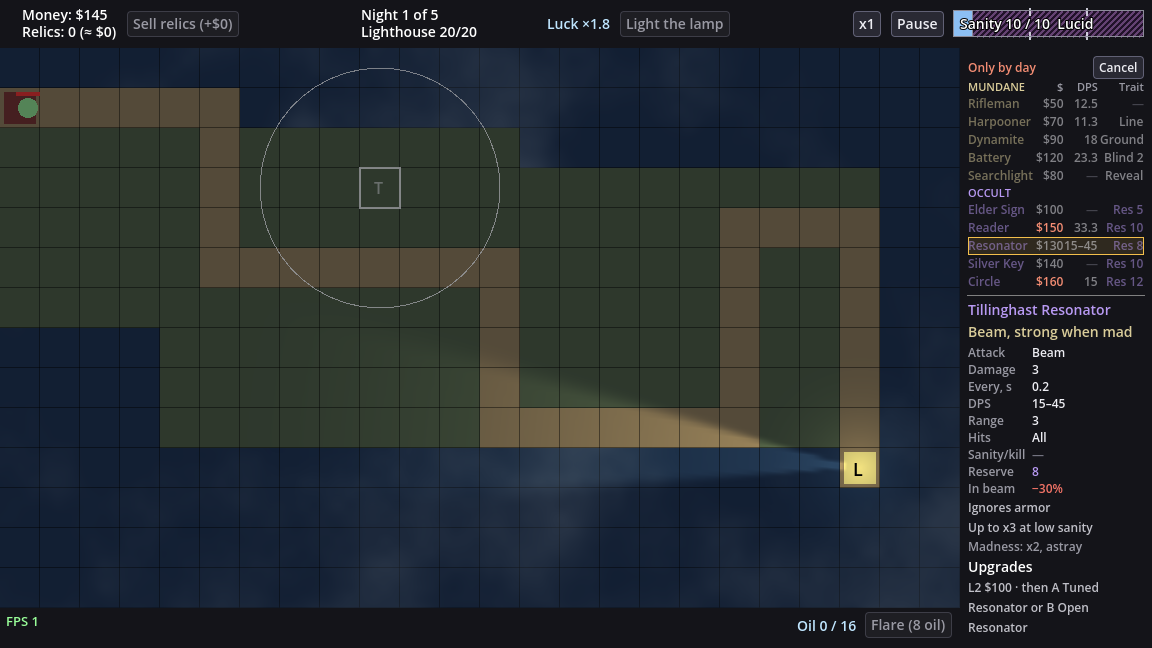
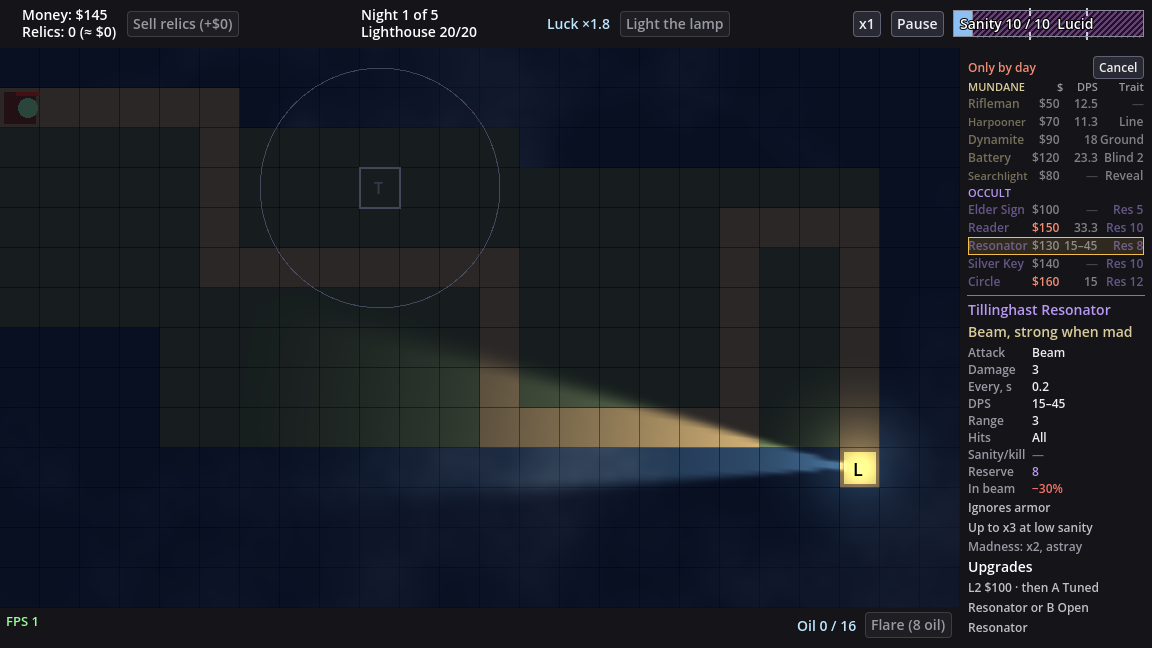
fix: keep $ and DPS apart and title every refusal in the build list (LT-61)
S3 review: "$130" and "15–45" read as one number, an all-poor night list claimed
"Build here", and a fixed 14 px scrollbar misaligned the heads past 14 towers.

Claude-Session: https://claude.ai/code/session_016GtYtGtxB8S4Ua2aVtEwu4

diff --git a/docs/design/LT-61-side-panel-picker.md b/docs/design/LT-61-side-panel-picker.md
@@ -70,8 +70,9 @@ tower gets a tag without a table:
 | `aoe_radius` effect (mundane, not caught above) | `Blast` | none today | 29 |
 | none | `—` | Rifleman | 12 |
 
-Column widths (px, font 12): name 66, $ 30, DPS 34, Trait 46 = 176 = the panel's inner width,
-no horizontal scroll. Widest tag "Ground" 44. The madness "!" stays where it was: after the
+Column widths (px, font 12): name 62, $ 30, gap 4, DPS 34, Trait 46 = 176 = the panel's
+inner width, no horizontal scroll. (S3 review: with name 66 and no gap "$130" and "15–45"
+touched and read as "$13015–45"; the name column gave 4 px to a gap after $.) Widest tag "Ground" 44. The madness "!" stays where it was: after the
 reserve value, now inside the Trait cell ("Res 10!", red).
 **Consequence:** the occult towers' own effects (slow, banish, summon, the Resonator's "strong
 when mad") are not in the row; they are in the card's Attack row and special lines.
@@ -123,8 +124,9 @@ keeps the full name. **Example (width at 12 px, column 66):**
 | Summoning Circle | Circle | 33 | Summoning | 70 (does not fit) |
 
 "Necronomicon" (86) and "Summoning" (70) do not fit 66 px. Data, not a UI table, so a modder's
-new tower gets its short name in the same place as its name; a test asserts every shipped
-short name fits the column at 12 px.
+new tower gets its short name in the same place as its name. With the name column at 62 px
+(§2, S3 review) "Searchlight" (65) and "Harpooner" (64) shrink to 11 px (`_fit_names`); a
+test asserts every shipped short name fits 62 px at 10-12 px without an ellipsis.
 + No ellipses at 10 towers. − Two names change identity ("Reader", "Circle"): the board glyphs
 are N and C, and the card title shows the full name on hover. Owner (Q2): "Reader, Circle и т.п. (Recommended)".
 
@@ -212,13 +214,13 @@ Change:
 
 | File | Lines | Change |
 |---|---|---|
-| `ui/tower_picker.gd` | 1-14 doc, 16-45 consts, 47-58 vars | `extends VBoxContainer` (in the panel, not over the board). Drop `COL_W*`, `LABEL_W`, `DIVIDER_W`, `NAME_H`, `SPECIAL_H`, `WRAP_SPACING`, `BAND_H`, `MARGIN`, `CELL_REASONS`, `col_w`. Add `NAME_W 66`, `COST_W 30`, `DPS_W 34`, `TRAIT_W 46`, `ROW_H 18`, `GROUP_H 16`, `LIST_MAX_ROWS 14`, `SCROLLBAR_W 14`, `HEADS` (text + tooltip), `title_label`. Keep `buttons`, `costs`, `names`, `cells` (keys now `dps`, `trait`), `hovered`, `cancel_button`, `cell`, `REASONS`, `STATUS_COLOR`, `DIM`, `MAD_MARK`, `GROUP_TITLES`, `COLOR_FRAME`, signal. |
+| `ui/tower_picker.gd` | 1-14 doc, 16-45 consts, 47-58 vars | `extends VBoxContainer` (in the panel, not over the board). Drop `COL_W*`, `LABEL_W`, `DIVIDER_W`, `NAME_H`, `SPECIAL_H`, `WRAP_SPACING`, `BAND_H`, `MARGIN`, `CELL_REASONS`, `col_w`. Add `NAME_W 62` (S3: was 66), `COST_W 30`, `COST_GAP 4`, `DPS_W 34`, `TRAIT_W 46`, `ROW_H 18`, `GROUP_H 16`, `LIST_MAX_ROWS 14`, `scrollbar_w()` (the real v-scrollbar width, S3: was a fixed 14), `HEADS` (text + tooltip), `title_label`. Keep `buttons`, `costs`, `names`, `cells` (keys now `dps`, `trait`), `hovered`, `cancel_button`, `cell`, `REASONS`, `STATUS_COLOR`, `DIM`, `MAD_MARK`, `GROUP_TITLES`, `COLOR_FRAME`, signal. |
 | `ui/tower_picker.gd` | 61-135 `_ready` | Title line (title label + Cancel), MUNDANE line with heads, rows, OCCULT line, rows; rows in a `ScrollContainer` with min height capped at `LIST_MAX_ROWS` (§5). No board-width maths. |
 | `ui/tower_picker.gd` | 138-148 `_label_column`, 151-191 `_column` | Replace by `_head_line(kind, with_heads)` and `_row(id, def)`: a flat `Button` (transparent normal/disabled box) holding an HBox of 4 labels (name, cost, DPS, trait); short name from `def.short_name`; trait from `TowerInfo.trait_text`. |
-| `ui/tower_picker.gd` | 194-208 `_fit_names` | Fit to `NAME_W` (minus `SCROLLBAR_W` when scrolling), 12 → 10, then ellipsis. |
+| `ui/tower_picker.gd` | 194-208 `_fit_names` | Fit to `NAME_W` (minus `scrollbar_w()` when scrolling; the pinned heads get a spacer of that width), 12 → 10, then ellipsis. |
 | `ui/tower_picker.gd` | 211-230 `open_for`, `_anchor` | Drop `_anchor`; `open_for` also sets `board.selected_glyph`. |
 | `ui/tower_picker.gd` | 233-241 `close` | Also clear `board.selected_glyph`. |
-| `ui/tower_picker.gd` | 244-290 `refresh`, `_cost_with_reason` | §6: title reason from the first non-gold refusal; drop `_cost_with_reason`; madness "!" on `cells[id]["trait"]` (was `["reserve"]`). |
+| `ui/tower_picker.gd` | 244-290 `refresh`, `_cost_with_reason` | §6: title reason from the first non-gold refusal; when every row is refused for gold, "Only by day" at night, else "Not enough money" (S3 review); drop `_cost_with_reason`; madness "!" on `cells[id]["trait"]` (was `["reserve"]`). |
 | `ui/tower_picker.gd` | 304-336 `_on_hover`, `_set_hovered`, `_frame` | §7: hover/exit as today (exit clears, card hides); frame = 1 px gold + faint fill; set/clear `board.selected_glyph`. |
 | `ui/side_panel.gd` | 19-33 vars, 68-104 `_ready` | Build a `Layout` VBox: picker (created here, like `tower_panel`) above `scroll`, `scroll` expand-fill. |
 | `ui/side_panel.gd` | 107-112 `attach_picker` | Gone or reduced to connecting signals of the panel's own picker. |
